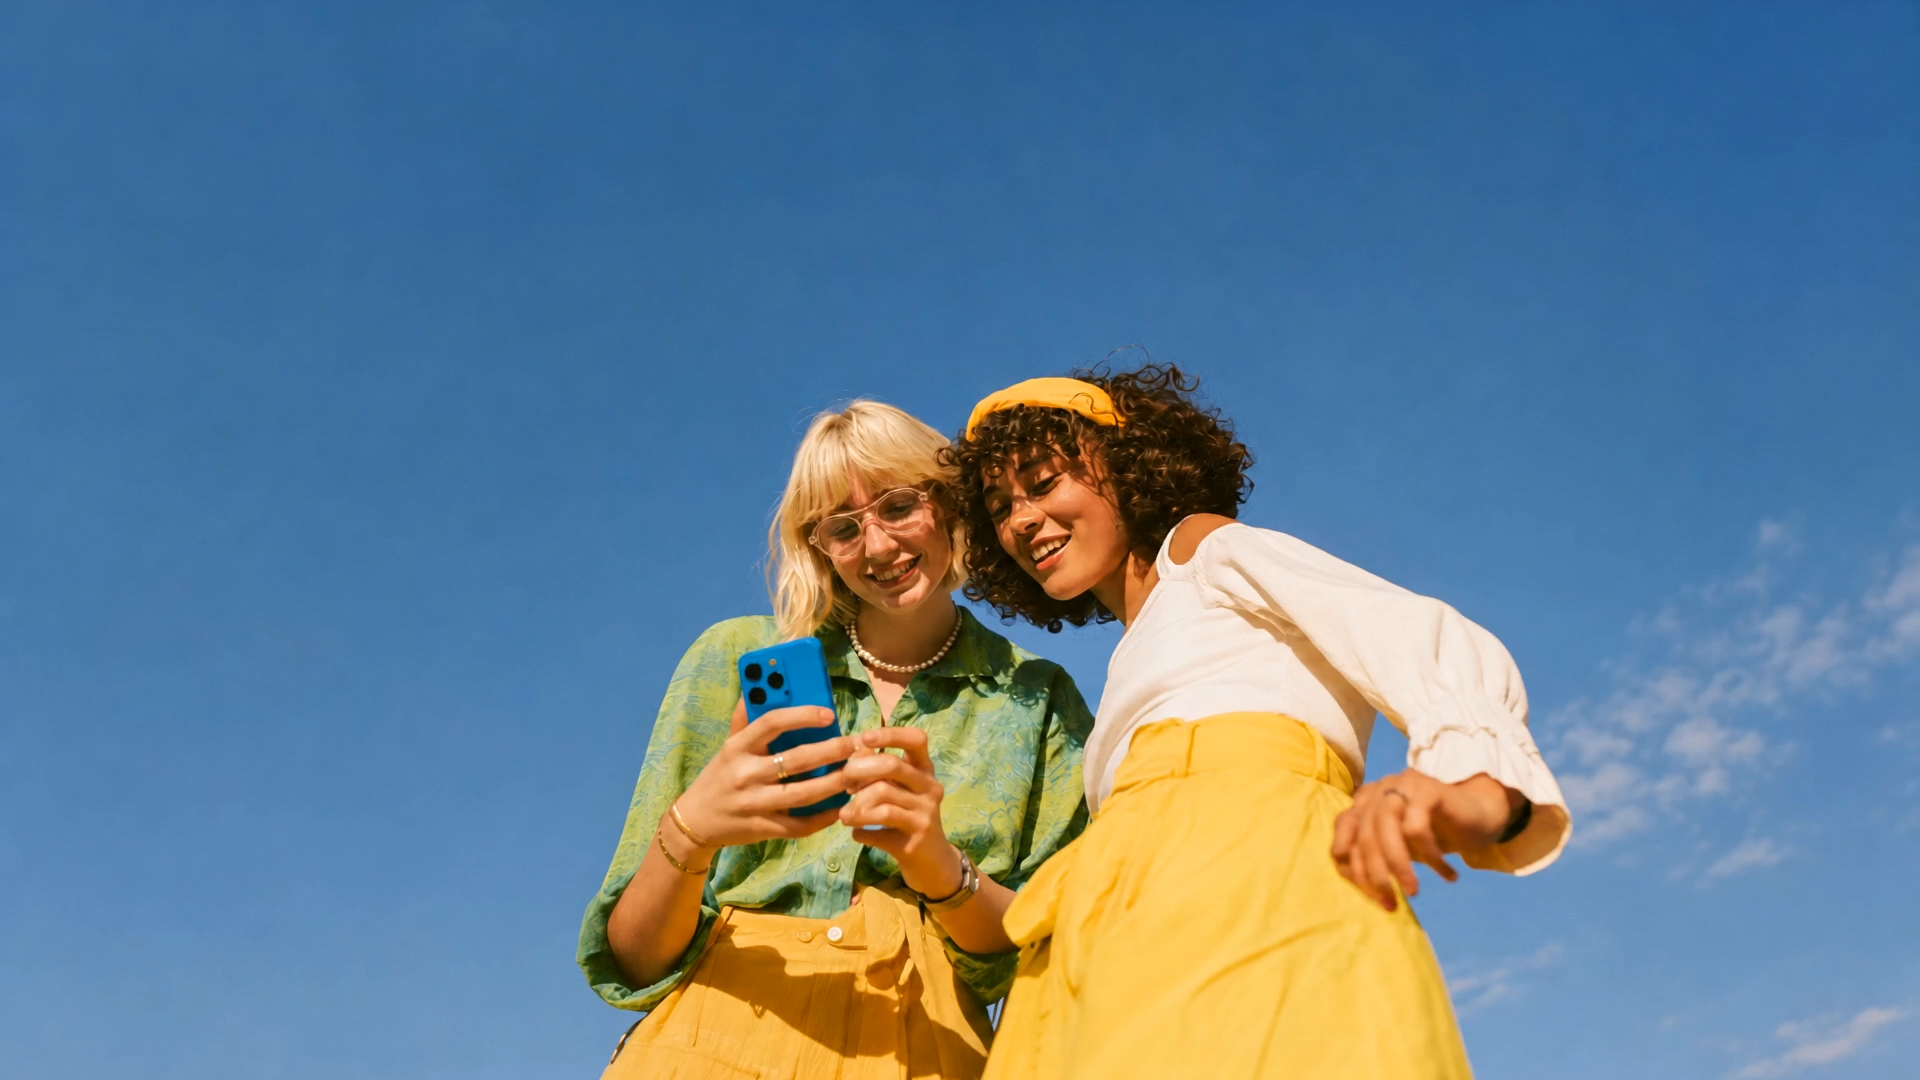
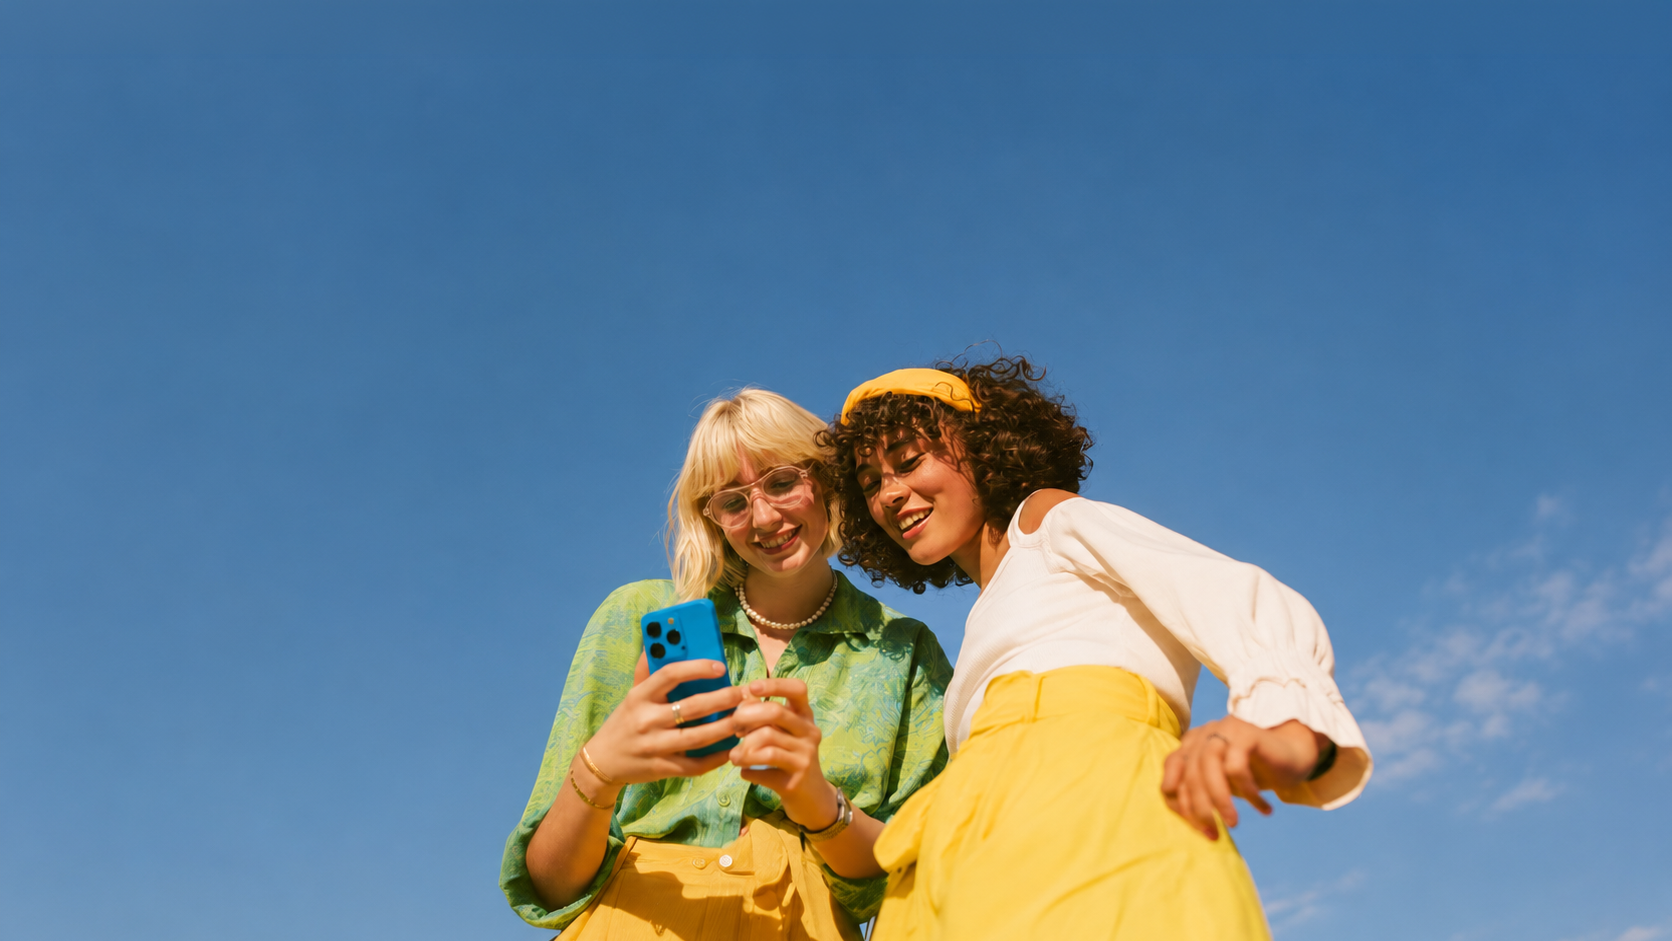
members hero: revert hero.png to prior still and lift poster 40px up on mobile (#99)
#98 swapped /public/hero.png to the literal t=0 frame of hero.mp4
for a pixel-perfect handoff, but the user wants the prior still
image back — the figures sit in a slightly different position
that reads better on its own.

Reverted /public/hero.png to the version from #95.

Because that still no longer matches the video's first frame
exactly, the standalone <img> is now offset 40px upward on mobile
(translate-y-[calc(10%_-_40px)]) so the figures in the photo align
with where the video's figures appear once playback starts.
Desktop is unchanged.

diff --git a/app/members/HeroBgVideo.tsx b/app/members/HeroBgVideo.tsx
@@ -69,10 +69,16 @@ export function HeroBgVideo() {
     }
   };
 
-  // Shared classes so <img> and <video> occupy the exact same
+  // Shared base classes so <img> and <video> occupy the same
   // transformed slot; switching between them is invisible to layout.
-  const SLOT_CLASS =
+  const VIDEO_CLASS =
     "pointer-events-none absolute inset-0 z-0 h-full w-full origin-bottom translate-y-[10%] scale-[1.25] object-cover object-[center_92%] lg:origin-center lg:translate-y-0 lg:scale-100 lg:object-center";
+  // The still poster is shifted an extra 40px up on mobile so the
+  // figures in the photo land where the user expects (the standalone
+  // still has slightly different framing from the video's first frame).
+  // Desktop matches the video exactly.
+  const IMG_CLASS =
+    "pointer-events-none absolute inset-0 z-0 h-full w-full origin-bottom translate-y-[calc(10%_-_40px)] scale-[1.25] object-cover object-[center_92%] lg:origin-center lg:translate-y-0 lg:scale-100 lg:object-center";
 
   return (
     <>
@@ -87,7 +93,7 @@ export function HeroBgVideo() {
           loop
           playsInline
           aria-hidden="true"
-          className={SLOT_CLASS}
+          className={VIDEO_CLASS}
         />
       )}
       {(mode === "poster" || imageVisible) && (
@@ -97,7 +103,7 @@ export function HeroBgVideo() {
             src="/hero.png"
             alt=""
             aria-hidden="true"
-            className={SLOT_CLASS}
+            className={IMG_CLASS}
           />
         </>
       )}
